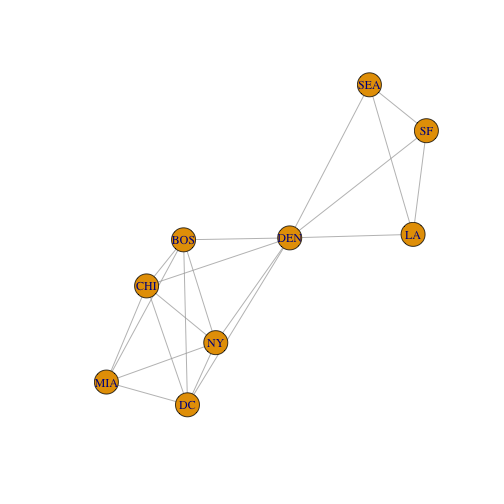
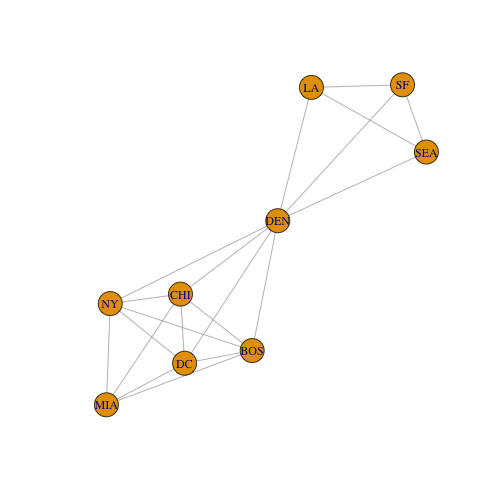
get rid of labels, networks 2

diff --git a/_posts/2018-05-31-genetic-networks-2.md b/_posts/2018-05-31-genetic-networks-2.md
@@ -305,7 +305,7 @@ gene_graphMR10 <- graph.adjacency(genes_adj_MR10, mode = "undirected") #convert 
 comps <- clusters(gene_graphMR10)$membership                        #define gene cluster membership
 colbar <- rainbow(max(comps)+1)                                   #define colors
 V(gene_graphMR10)$color <- colbar[comps+1]                          #assign colors to nodes
-plot(gene_graphMR10, layout = layout_with_kk, vertex.size = 4)
+plot(gene_graphMR10, layout = layout_with_kk, vertex.size = 4, vertex.label = NA)
 ```
 
 ##Graph Statistics for Network Comparison
